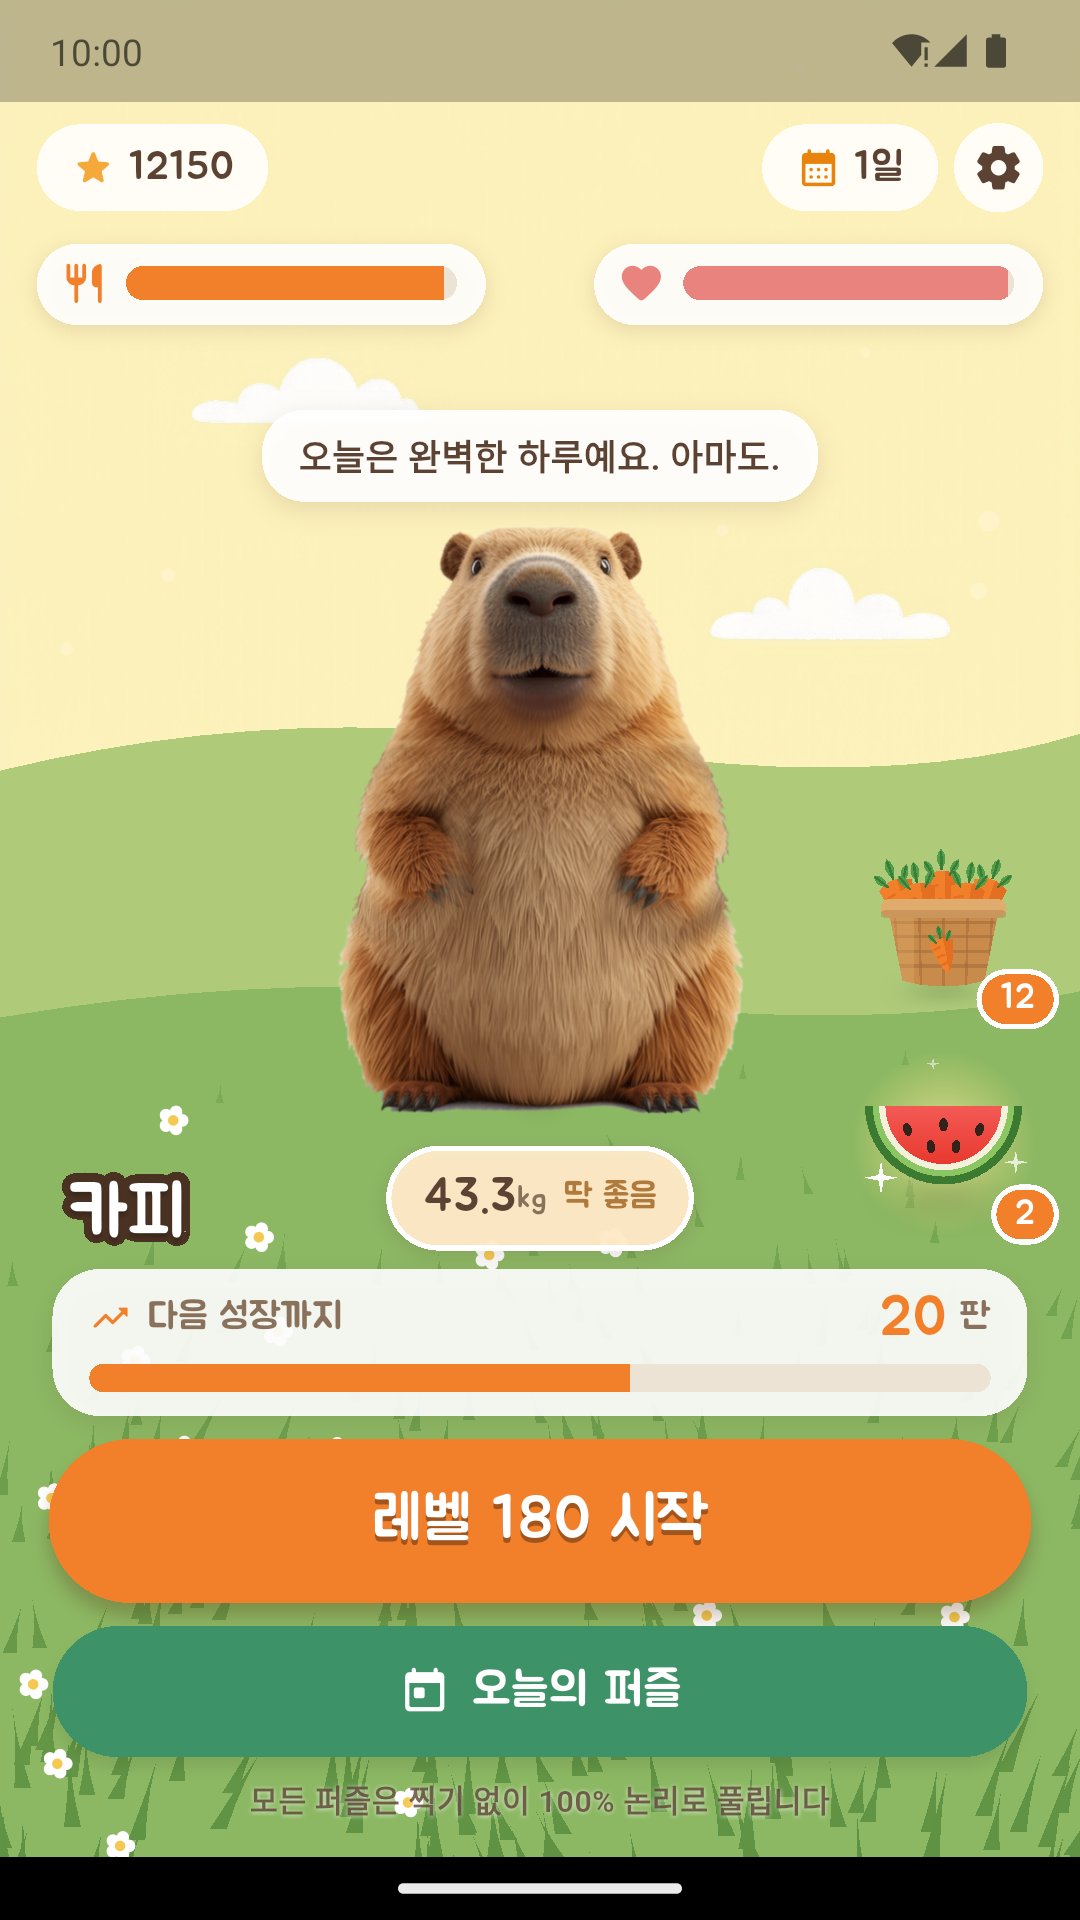
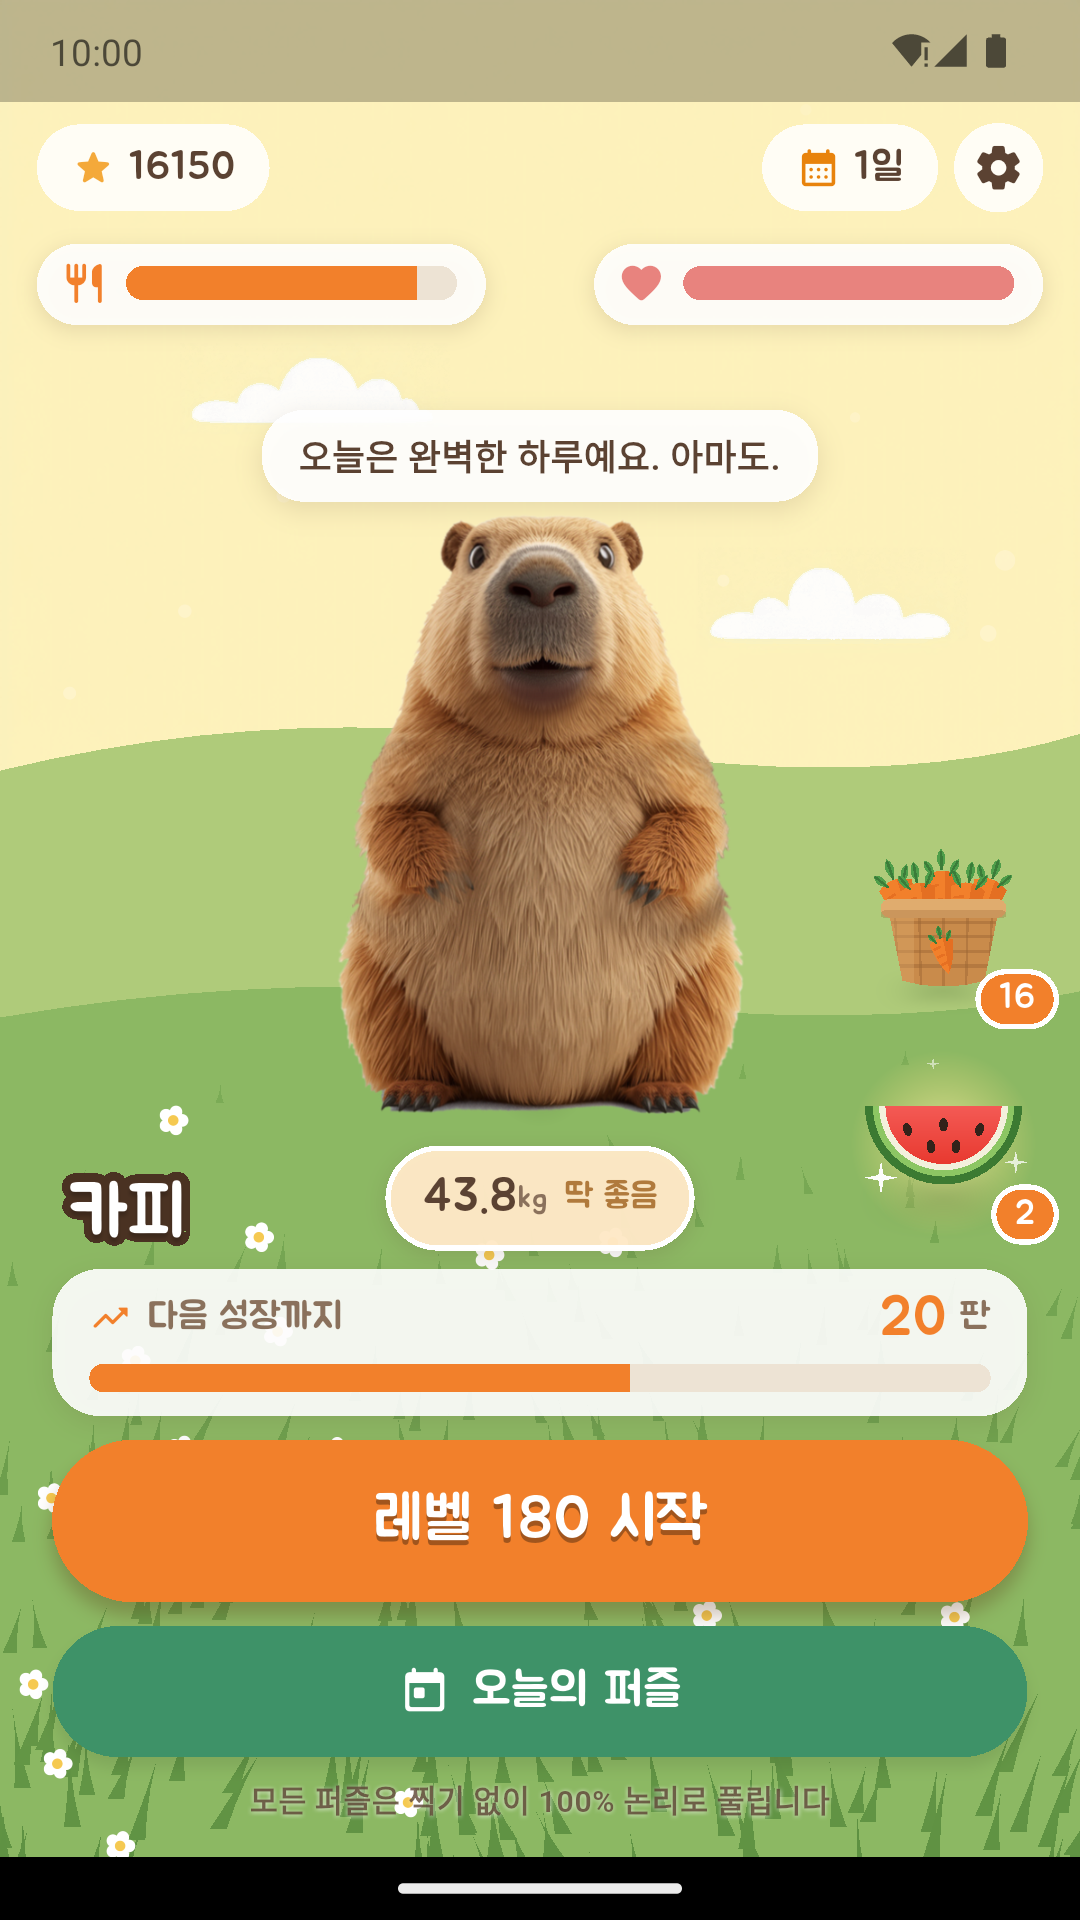
성인 카피 눈을 키웠다 — 다시 그리지 않고 부풀려서
성인(s4)만 눈이 너무 작아 화면에서도 스토어 스크린샷에서도 감은 것처럼
보였다. 다섯 단계 중 하나만 표정이 안 읽혔다.

먼저 Canva로 다시 렌더해 봤다. 나온 그림이 **햄스터**에 가까웠고(수염이
길고 귀가 크고 주둥이가 뾰족했다) 청소년(s3)보다 어려 보여서 성장 순서가
뒤집혔다. 얼굴을 통째로 갈면 가족 다섯이 같은 종으로 안 읽힌다.

그래서 원본은 그대로 두고 **눈만 부풀린다**(`tool/bigger_eyes.py`).
리퀴파이의 bloat와 같은 변형이라 눈 주위를 매끄럽게 잡아 늘일 뿐,
털·주둥이·귀는 건드리지 않는다. 경계에서 기울기가 0이라 이어붙인 자국도
없다. 2.0배가 작은 화면에서도 "떴다"가 읽히면서 만화 눈은 되지 않는 선이고,
2.2를 넘기면 콧등이 눌려 주둥이가 좁아 보인다.

눈꺼풀도 함께 키웠다(`eye_r` 11 → 18). 안 키우면 깜빡일 때 커진 눈이 다
안 덮인다. `lidRise`도 따라 바뀌어 capy_rig.dart의 stage4 좌표를 갱신했다.

원본은 `build/stage_raw/s4_orig.png`에 남겨 둔다 — 배율을 다시 잡으려면
거기서 새로 만든다.

diff --git a/lib/art/capy_rig.dart b/lib/art/capy_rig.dart
@@ -98,7 +98,7 @@ class CapySkins {
                0.3833, 0.5842, 0.6136, 0.5842],
     'stage3': [0.5030, 0.4658, 0.0363, 0.0380, 0.4121, 0.5879, 0.2763,
                0.3000, 0.5263, 0.6985, 0.5263],
-    'stage4': [0.5000, 0.4684, 0.0333, 0.0425, 0.3712, 0.6212, 0.1513,
+    'stage4': [0.5000, 0.4684, 0.0545, 0.0425, 0.3712, 0.6212, 0.1513,
                0.2818, 0.4724, 0.7152, 0.4724],
     'stage5': [0.5076, 0.4289, 0.0303, 0.0503, 0.3636, 0.6439, 0.0789,
                0.2424, 0.4895, 0.7561, 0.4895],

diff --git a/tool/bigger_eyes.py b/tool/bigger_eyes.py
@@ -1,0 +1,83 @@
+#!/usr/bin/env python3
+"""성인(s4) 카피의 **눈만** 키운다.
+
+    python3 tool/bigger_eyes.py && python3 tool/gen_stages.py && python3 tool/rig_stages.py
+
+성인 단계는 눈이 너무 작아 화면에서도 스토어 스크린샷에서도 감은 것처럼
+보였다. 처음엔 Canva로 다시 렌더했는데, 나온 그림이 **햄스터**에 가까웠고
+청소년(s3)보다 어려 보여서 성장 순서가 뒤집혔다. 얼굴을 통째로 바꾸면
+가족 다섯이 같은 종으로 안 읽힌다.
+
+그래서 **원본은 그대로 두고 눈만 부풀린다**(리퀴파이의 bloat와 같은 변형).
+눈 주위를 반경 안에서 매끄럽게 잡아 늘이므로 붙여 넣은 티가 안 나고,
+털·주둥이·귀는 건드리지 않는다.
+
+원본을 덮어쓰지 않는다 — `build/stage_raw/s4_orig.png`에 한 번만 남겨 두고
+매번 거기서 다시 만든다. 그래야 배율을 몇 번이고 다시 잡을 수 있다.
+"""
+import os
+
+from PIL import Image
+
+RAW = 'build/stage_raw'
+
+# 눈 중심(원본 1131×1600 좌표)과 부풀릴 반경.
+# 반경은 **주둥이와 귀에 닿기 전**까지다 — 넘어가면 코가 같이 늘어난다.
+EYES = [(440, 328), (698, 332)]
+RADIUS = 78
+
+# 중심에서의 확대 배율. 2.0쯤이 작은 화면에서도 "떴다"가 읽히면서 만화 눈은 되지 않는 선.
+# 2.2를 넘기면 콧등이 눌려 주둥이가 좁아 보인다.
+BOOST = 2.0
+
+
+def bloat(img, cx, cy, radius, boost):
+    """(cx, cy) 둘레를 안쪽으로 잡아당겨 그 자리를 확대한다.
+
+    거리 t=d/radius에 대해 안쪽일수록 원본의 더 가까운 곳에서 색을 가져온다.
+    경계(t=1)에서는 기울기까지 0이 되므로 이어붙인 자국이 안 생긴다.
+    """
+    px = img.load()
+    W, H = img.size
+    x0, y0 = max(0, int(cx - radius)), max(0, int(cy - radius))
+    x1, y1 = min(W, int(cx + radius) + 1), min(H, int(cy + radius) + 1)
+    patch = {}
+    for y in range(y0, y1):
+        for x in range(x0, x1):
+            dx, dy = x - cx, y - cy
+            d = (dx * dx + dy * dy) ** 0.5
+            if d >= radius:
+                continue
+            t = d / radius
+            scale = 1.0 / (1.0 + (boost - 1.0) * (1.0 - t) ** 2)
+            sx, sy = cx + dx * scale, cy + dy * scale
+            # 이중선형 보간. 최근접으로 뽑으면 눈꺼풀 가장자리가 계단이 된다.
+            ix, iy = int(sx), int(sy)
+            fx, fy = sx - ix, sy - iy
+            ix = min(max(ix, 0), W - 2)
+            iy = min(max(iy, 0), H - 2)
+            c00, c10 = px[ix, iy], px[ix + 1, iy]
+            c01, c11 = px[ix, iy + 1], px[ix + 1, iy + 1]
+            patch[(x, y)] = tuple(
+                round(c00[i] * (1 - fx) * (1 - fy) + c10[i] * fx * (1 - fy) +
+                      c01[i] * (1 - fx) * fy + c11[i] * fx * fy)
+                for i in range(len(c00)))
+    for p, c in patch.items():
+        px[p] = c
+    return img
+
+
+def main():
+    orig = f'{RAW}/s4_orig.png'
+    if not os.path.exists(orig):
+        os.rename(f'{RAW}/s4.png', orig)
+        print(f'원본을 {orig}로 옮겨 두었다')
+    img = Image.open(orig).convert('RGB')
+    for cx, cy in EYES:
+        bloat(img, cx, cy, RADIUS, BOOST)
+    img.save(f'{RAW}/s4.png')
+    print(f'{RAW}/s4.png — 눈 {BOOST}배')
+
+
+if __name__ == '__main__':
+    main()

diff --git a/tool/rig_stages.py b/tool/rig_stages.py
@@ -60,7 +60,9 @@ SPECS = [
          [(182, 487, 40, 99), (476, 487, 39, 99)], [(198, 400), (461, 400)], [231, 433]),
     # 성인·어른은 목이 없다시피 하다. 자름선을 가슴까지 내려 "머리"에 윗가슴을
     # 함께 물린다 — 실제로도 이런 몸은 고개만 돌지 않고 상체째 돈다.
-    Spec('s4', 330, 150, 350, 300, [(245, 115), (410, 115)], 11,
+    # 성인은 눈을 2배로 부풀렸다(tool/bigger_eyes.py) — 눈꺼풀도 같이 커져야
+    # 깜빡일 때 눈이 다 안 덮인다.
+    Spec('s4', 330, 150, 350, 300, [(245, 115), (410, 115)], 18,
          (330, 225, 65, 38),
          [(162, 441, 55, 93), (496, 441, 56, 93)], [(186, 359), (472, 359)], [221, 414]),
     # 어른 — 주둥이가 크고 회색이라 턱 타원도 크다.
